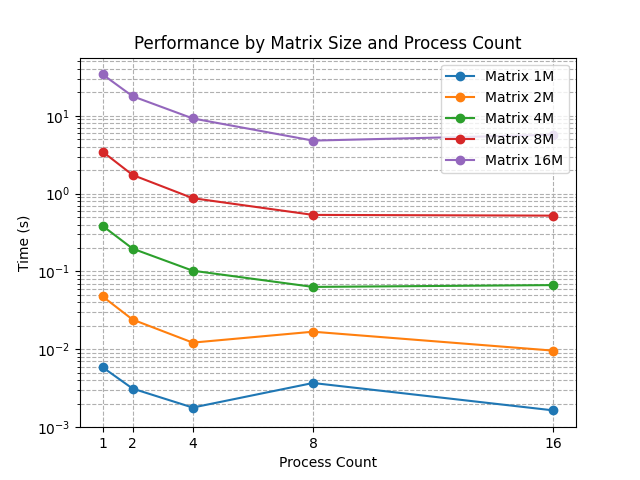
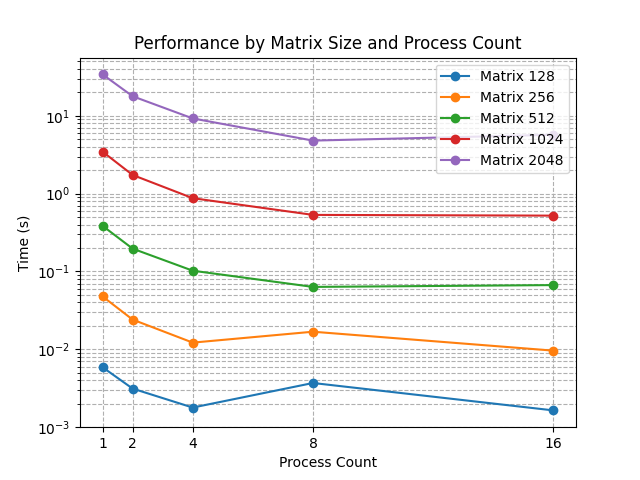
update png

Changed region(s): [[0.6875, 0.125, 0.875, 0.3438]]

diff --git a/table.py b/table.py
@@ -3,23 +3,23 @@ import matplotlib.pyplot as plt
 
 # 你提供的数据
 table = np.array([
-    [0.005983, 0.048604, 0.398889, 3.642851, 47.677945],
-    [0.003115, 0.024398, 0.200865, 1.848243, 22.641008],
-    [0.001711, 0.012336, 0.100701, 0.944562, 11.833128],
-    [0.001057, 0.012760, 0.057415, 0.547553, 6.701250],
-    [0.001329, 0.012713, 0.055641, 0.548499, 6.779896]
+    [0.006226, 0.048846, 0.419104, 4.707591, 47.903420],
+    [0.003153, 0.024648, 0.210839, 2.551885, 24.262633],
+    [0.001921, 0.012420, 0.113997, 1.340333, 12.605440],
+    [0.001709, 0.019075, 0.083029, 0.768914, 7.224184],
+    [0.001755, 0.009580, 0.071260, 0.815397, 7.712825]
 ])
 
 # 进程数
 process_counts = np.array([1, 2, 4, 8, 16])
 
 # 矩阵规模
-# matrix_sizes = ['128', '256', '512', '1024', '2048']
-array_len = ['1M', '2M', '4M', '8M', '16M', '32M', '64M', '128M']
+matrix_sizes = ['128', '256', '512', '1024', '2048']
+# array_len = ['1M', '2M', '4M', '8M', '16M', '32M', '64M', '128M']
 
 # 遍历每一列来绘制曲线图
 for i in range(table.shape[1]):
-    plt.plot(process_counts, table[:, i], label=f'Matrix {array_len[i]}', marker='o')  # 添加了标记以便更好地区分数据点
+    plt.plot(process_counts, table[:, i], label=f'Matrix {matrix_sizes[i]}', marker='o')  # 添加了标记以便更好地区分数据点
 
 plt.title("Performance by Matrix Size and Process Count")  # 设置图表标题
 plt.xlabel("Process Count")  # 设置x轴标签为进程数

diff --git a/PP5/PP5.md b/PP5/PP5.md
@@ -189,7 +189,9 @@ Time Elapsed = 5.713462 seconds
 
 可视化：
 
+![](https://github.com/xiao10ma/Parallel-Programming/blob/master/PP5/default.png?raw=true)
 
+在使用OpenMP进行矩阵乘法的实验中，我们观察到随着矩阵规模的增加，运行时间显著增长。增加进程数可以有效缩短运算时间，特别是当进程数不超过机器的物理核心数（如8核）时，性能提升最为明显。例如，对于2048规模的矩阵，使用8个进程比使用16个进程具有更低的运行时间，显示出并行化的边界效益。这些观察结果表明，在应用并行计算时，选择适宜的进程数是至关重要的，以确保计算资源的高效利用，同时避免因超出物理核心数，由于进程上下文切换而引入的额外并行开销。
 
 ## 4. 不同调度方式实现
 
@@ -291,6 +293,10 @@ Time Elapsed = 6.712368 seconds
 
 可视化：
 
+![](https://github.com/xiao10ma/Parallel-Programming/blob/master/PP5/static.png?raw=true)
+
+在使用静态调度方式进行OpenMP矩阵乘法实验时，我们同样观察到随着矩阵规模的增大，运行时间增长。与默认调度相比，静态调度效率降低。例如，对于2048规模的矩阵，静态调度在使用8核和16核时的运行时间高于默认调度，表明默认调度在任务分配上可能更有效率。
+
 ### 4.2 动态调度
 N = 128:
 
@@ -378,4 +384,151 @@ Time Elapsed = 6.779896 seconds
 | 16   | 0.001329 | 0.012713 | 0.055641 | 0.548499 | 6.779896  |
 
 可视化：
+
+![](https://github.com/xiao10ma/Parallel-Programming/blob/master/PP5/dynamic.png?raw=true)
+
+在使用动态调度方式实现OpenMP矩阵乘法时，我们观察到随着进程数的增加，性能下降，尤其是在较大矩阵规模（如2048）上，动态调度的性能劣于默认和静态调度。可能是因为核的工作量基本相同，而动态调度更加适合核的工作量不同的情况，所以可能动态调动对于性能的提升不高，甚至在本实验中导致了性能下降。
+
+## 5. Pthreads构建并行for循环
+
+### 5.1 构建parallel_for函数
+
+```cpp
+void parallel_for(int start, int end, int inc, void *(*functor)(int, void*), void *arg, int num_threads) {
+    pthread_t threads[num_threads];
+    ThreadData thread_data[num_threads];
+    int chunk_size = (end - start) / num_threads;
+    
+    for (int i = 0; i < num_threads; i++) {
+        thread_data[i].start = start + i * chunk_size;
+        thread_data[i].end = (i == num_threads - 1) ? end : thread_data[i].start + chunk_size;
+        thread_data[i].inc = inc;
+        thread_data[i].functor = functor;
+        thread_data[i].arg = arg;
+        pthread_create(&threads[i], NULL, thread_function, &thread_data[i]);
+    }
+    
+    for (int i = 0; i < num_threads; i++) {
+        pthread_join(threads[i], NULL);
+    }
+}
+```
+
+利用多线程技术将一个较大的任务分割成多个小块，让每个线程并行处理一部分任务，从而提高程序的执行效率。
+
+编译为.so文件：
+
+```bash
+gcc -shared -fpic -o libparallelfor.so parallel_for.c
+```
+
+### 5.2 引用parallel_for函数
+
+```cpp
+// 需要extern声明以便链接到动态库
+extern void parallel_for(int start, int end, int inc, void *(*func)(int, void*), void *arg, int num_threads);
+
+...
+  
+parallel_for(0, N, 1, matrix_multiply_functor, &data, num_threads);
+```
+
+### 5.3 实验结果
+
+编译mm_parallelfor.c
+
+```bash
+gcc -o matrix_mult.out mm_parallelfor.c -L. -lparallelfor -lpthread -fopenmp
+```
+
+将当前目录加入到环境变量：
+
+```bash
+export LD_LIBRARY_PATH=$LD_LIBRARY_PATH:.
+```
+
+N = 128:
+
+```bash
+xiaoma@xiaoma-virtual-machine:~/Parallel-Programming/PP5$ ./matrix_mult.out 1
+Total time: 0.006226 seconds
+xiaoma@xiaoma-virtual-machine:~/Parallel-Programming/PP5$ ./matrix_mult.out 2
+Total time: 0.003153 seconds
+xiaoma@xiaoma-virtual-machine:~/Parallel-Programming/PP5$ ./matrix_mult.out 4
+Total time: 0.001921 seconds
+xiaoma@xiaoma-virtual-machine:~/Parallel-Programming/PP5$ ./matrix_mult.out 8
+Total time: 0.001709 seconds
+xiaoma@xiaoma-virtual-machine:~/Parallel-Programming/PP5$ ./matrix_mult.out 16
+Total time: 0.001755 seconds
+```
+
+N = 256:
+
+```bash
+xiaoma@xiaoma-virtual-machine:~/Parallel-Programming/PP5$ ./matrix_mult.out 1
+Total time: 0.048846 seconds
+xiaoma@xiaoma-virtual-machine:~/Parallel-Programming/PP5$ ./matrix_mult.out 2
+Total time: 0.024648 seconds
+xiaoma@xiaoma-virtual-machine:~/Parallel-Programming/PP5$ ./matrix_mult.out 4
+Total time: 0.012420 seconds
+xiaoma@xiaoma-virtual-machine:~/Parallel-Programming/PP5$ ./matrix_mult.out 8
+Total time: 0.019075 seconds
+xiaoma@xiaoma-virtual-machine:~/Parallel-Programming/PP5$ ./matrix_mult.out 16
+Total time: 0.009580 seconds
+```
+
+N = 512:
+
+```bash
+xiaoma@xiaoma-virtual-machine:~/Parallel-Programming/PP5$ ./matrix_mult.out 1
+Total time: 0.419104 seconds
+xiaoma@xiaoma-virtual-machine:~/Parallel-Programming/PP5$ ./matrix_mult.out 2
+Total time: 0.210839 seconds
+xiaoma@xiaoma-virtual-machine:~/Parallel-Programming/PP5$ ./matrix_mult.out 4
+Total time: 0.113997 seconds
+xiaoma@xiaoma-virtual-machine:~/Parallel-Programming/PP5$ ./matrix_mult.out 8
+Total time: 0.083029 seconds
+xiaoma@xiaoma-virtual-machine:~/Parallel-Programming/PP5$ ./matrix_mult.out 16
+Total time: 0.071260 seconds
+```
+
+N = 1024:
+
+```bash
+xiaoma@xiaoma-virtual-machine:~/Parallel-Programming/PP5$ ./matrix_mult.out 1
+Total time: 4.707591 seconds
+xiaoma@xiaoma-virtual-machine:~/Parallel-Programming/PP5$ ./matrix_mult.out 2
+Total time: 2.551885 seconds
+xiaoma@xiaoma-virtual-machine:~/Parallel-Programming/PP5$ ./matrix_mult.out 4
+Total time: 1.340333 seconds
+xiaoma@xiaoma-virtual-machine:~/Parallel-Programming/PP5$ ./matrix_mult.out 8
+Total time: 0.768914 seconds
+xiaoma@xiaoma-virtual-machine:~/Parallel-Programming/PP5$ ./matrix_mult.out 16
+Total time: 0.815397 seconds
+```
+
+N = 2048:
+
+```bash
+xiaoma@xiaoma-virtual-machine:~/Parallel-Programming/PP5$ ./matrix_mult.out 1
+Total time: 47.903420 seconds
+xiaoma@xiaoma-virtual-machine:~/Parallel-Programming/PP5$ ./matrix_mult.out 2
+Total time: 24.262633 seconds
+xiaoma@xiaoma-virtual-machine:~/Parallel-Programming/PP5$ ./matrix_mult.out 4
+Total time: 12.605440 seconds
+xiaoma@xiaoma-virtual-machine:~/Parallel-Programming/PP5$ ./matrix_mult.out 8
+Total time: 7.224184 seconds
+xiaoma@xiaoma-virtual-machine:~/Parallel-Programming/PP5$ ./matrix_mult.out 16
+Total time: 7.712825 seconds
+```
+
+表格：
+
+| P\N  | 128      | 256      | 512      | 1024     | 2048      |
+| ---- | -------- | -------- | -------- | -------- | --------- |
+| 1    | 0.006226 | 0.048846 | 0.419104 | 4.707591 | 47.903420 |
+| 2    | 0.003153 | 0.024648 | 0.210839 | 2.551885 | 24.262633 |
+| 4    | 0.001921 | 0.012420 | 0.113997 | 1.340333 | 12.605440 |
+| 8    | 0.001709 | 0.019075 | 0.083029 | 0.768914 | 7.224184  |
+| 16   | 0.001755 | 0.009580 | 0.071260 | 0.815397 | 7.712825  |
 
